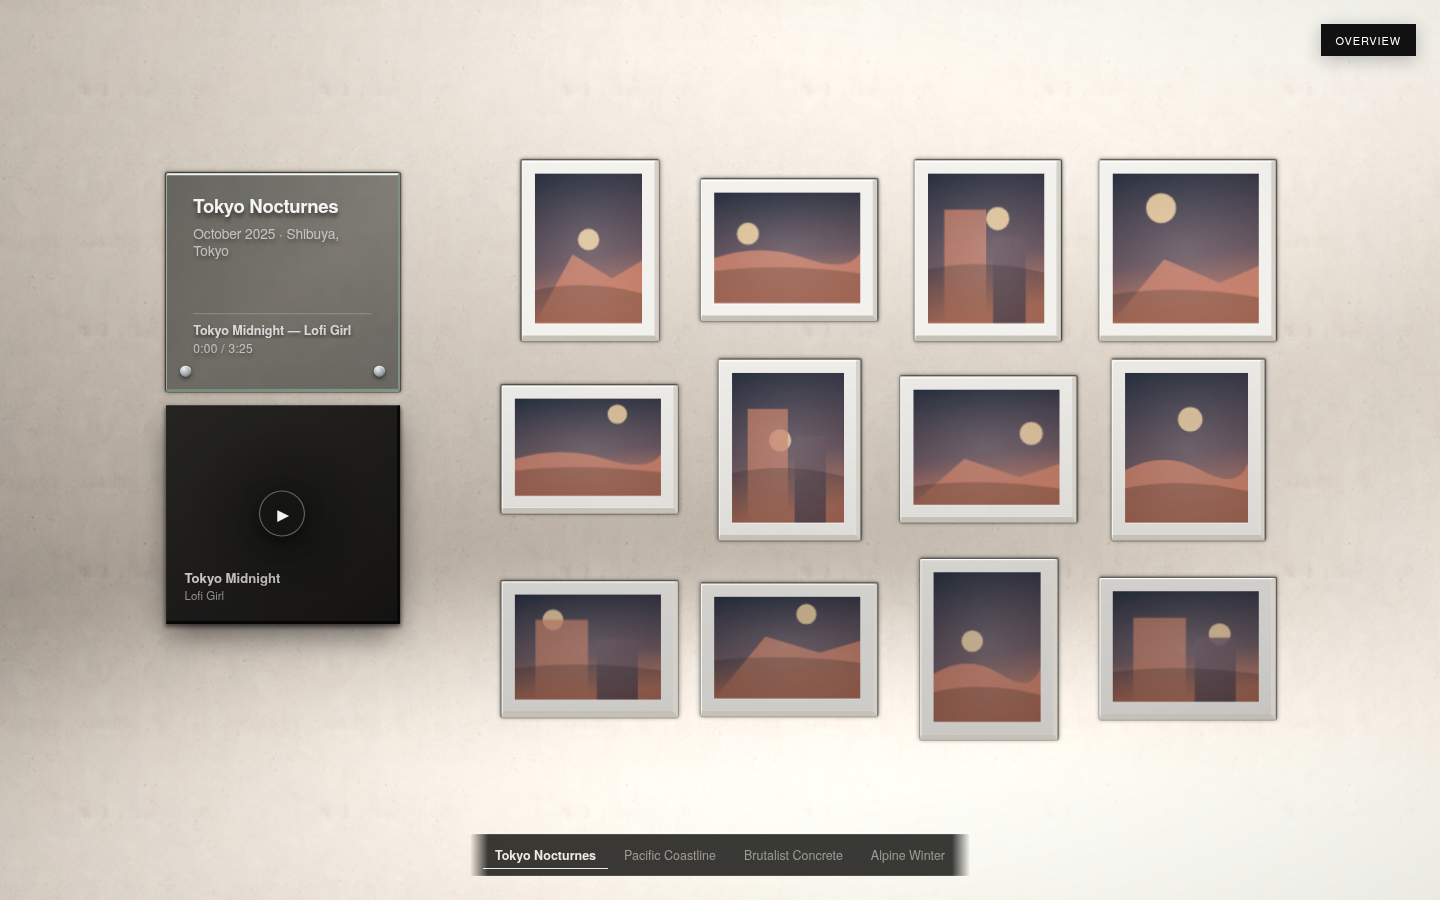
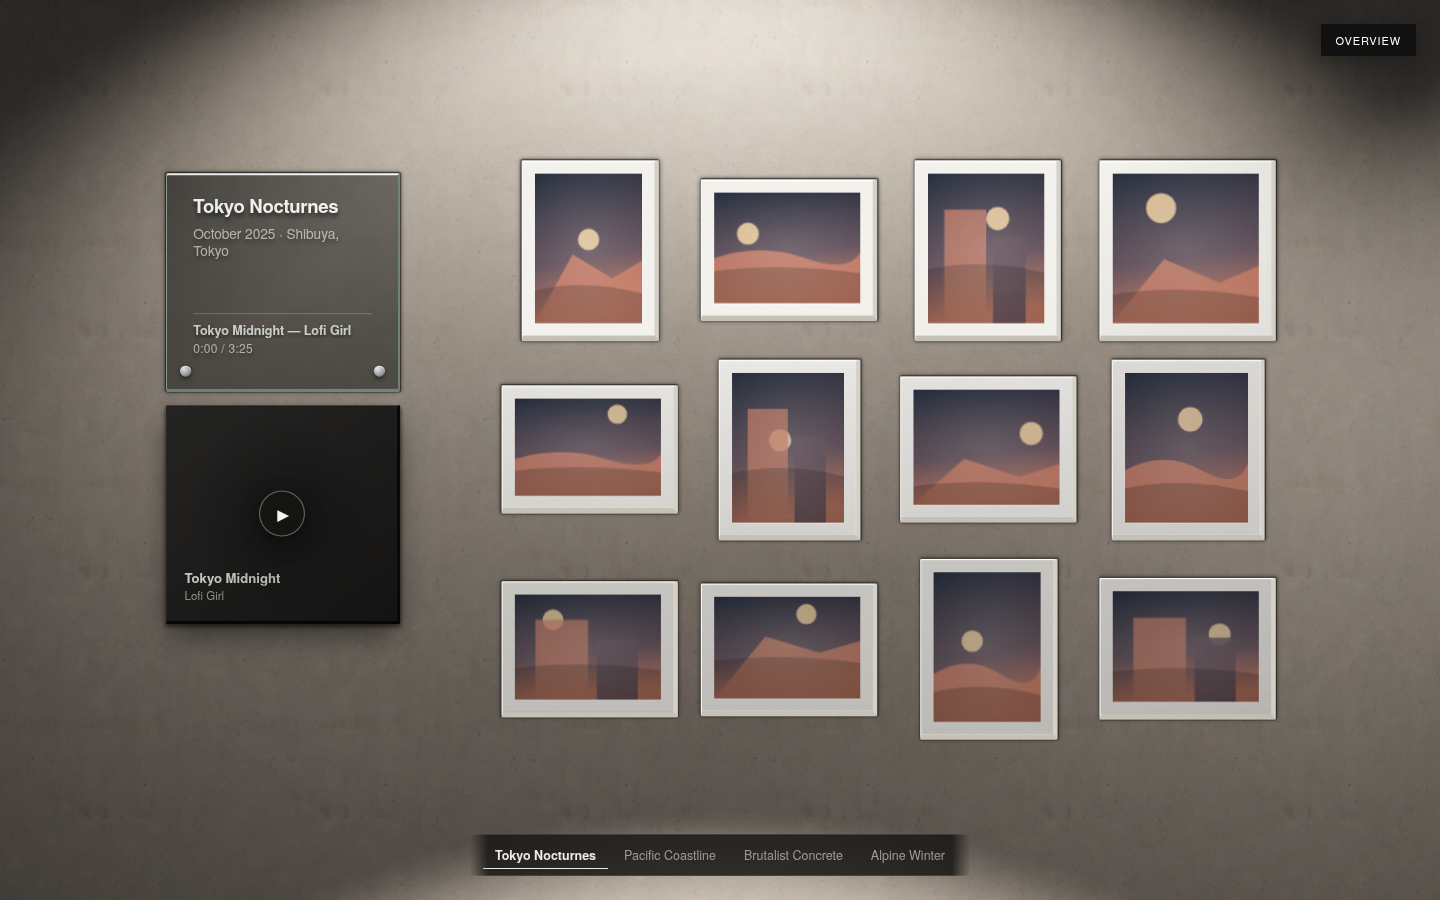
fix(gallery-visual-fidelity): tighten elliptical wash, restore chiaroscuro/concrete separation, and fix mobile tap-to-inspect (PATCH-01)

diff --git a/src/components/wall/GalleryCanvas.tsx b/src/components/wall/GalleryCanvas.tsx
@@ -740,6 +740,7 @@ export default function GalleryCanvas({
                     tier={tier}
                     scale={scale}
                     focusedPhotoId={focusedAlbumId === album.id ? focusedPhotoId : null}
+                    albumFocused={focusedAlbumId === album.id}
                     placardMaterial={placardMaterial}
                     lighting={lightingForAlbum}
                     isDraft={isDraft}
@@ -764,6 +765,7 @@ interface AlbumTierProps {
   tier: ZoomTier;
   scale: number;
   focusedPhotoId: string | null;
+  albumFocused: boolean;
   placardMaterial: PlacardMaterial;
   lighting: IslandLighting | undefined;
   isDraft: boolean;
@@ -779,6 +781,7 @@ function AlbumTier({
   tier,
   scale,
   focusedPhotoId,
+  albumFocused,
   placardMaterial,
   lighting,
   isDraft,
@@ -842,6 +845,7 @@ function AlbumTier({
               tier={tier}
               scale={scale}
               focused={focused}
+              albumFocused={albumFocused}
               lightingVars={lighting?.prints.get(index)}
               onSelectAlbum={onSelectAlbum}
               onSelectPhoto={onSelectPhoto}

diff --git a/src/lib/lighting/__tests__/playgroundLighting.test.ts b/src/lib/lighting/__tests__/playgroundLighting.test.ts
@@ -78,13 +78,13 @@ describe('WALL_SHADER_CFG', () => {
 describe('LIGHT_CFG', () => {
   it('locks the wide single-wash elliptical spotlight constants', () => {
     expect(LIGHT_CFG.fixturePerCols).toBe(99);
-    expect(LIGHT_CFG.hotspotFrac).toBe(0.34);
-    expect(LIGHT_CFG.heightFrac).toBe(1.05);
-    expect(LIGHT_CFG.innerDeg).toBe(26);
-    expect(LIGHT_CFG.outerDeg).toBe(54);
-    expect(LIGHT_CFG.ambientObj).toBeCloseTo(0.56, 10);
+    expect(LIGHT_CFG.hotspotFrac).toBe(0.32);
+    expect(LIGHT_CFG.heightFrac).toBe(0.96);
+    expect(LIGHT_CFG.innerDeg).toBe(18);
+    expect(LIGHT_CFG.outerDeg).toBe(38);
+    expect(LIGHT_CFG.ambientObj).toBeCloseTo(0.5, 10);
     expect(LIGHT_CFG.objDepth).toBe(9);
-    expect(LIGHT_CFG.throwFrac).toBe(1.15);
+    expect(LIGHT_CFG.throwFrac).toBe(0.85);
     expect(LIGHT_CFG.placardDepth).toBe(14);
     expect(LIGHT_CFG.printDepth).toBe(22);
     expect(PLACARD_DEPTH).toBeCloseTo(0.14, 10);

diff --git a/src/components/wall/FramedPrint.tsx b/src/components/wall/FramedPrint.tsx
@@ -25,6 +25,7 @@ export interface FramedPrintProps {
   tier: ZoomTier;
   scale: number;
   focused: boolean;
+  albumFocused?: boolean;
   /** Per-print `--lit*` custom properties from `playgroundLighting`. */
   lightingVars?: Record<string, string>;
   onSelectAlbum: (albumId: string) => void;
@@ -43,6 +44,7 @@ export default function FramedPrint({
   tier,
   scale,
   focused,
+  albumFocused = false,
   lightingVars,
   onSelectAlbum,
   onSelectPhoto,
@@ -61,7 +63,7 @@ export default function FramedPrint({
         onClick={(event) => {
           event.stopPropagation();
           if (wasDragged()) return;
-          if (tier === 'macro' || scale < 0.52) onSelectAlbum(albumId);
+          if (tier === 'macro' || (scale < 0.52 && !albumFocused)) onSelectAlbum(albumId);
           else onSelectPhoto(albumId, photo.id);
         }}
         onPointerMove={(event) => {

diff --git a/src/lib/lighting/playgroundLighting.ts b/src/lib/lighting/playgroundLighting.ts
@@ -41,13 +41,13 @@ export const MAX_SPOTS = 256;
  */
 export const LIGHT_CFG = {
   fixturePerCols: 99,
-  hotspotFrac: 0.34,
-  heightFrac: 1.05,
-  innerDeg: 26,
-  outerDeg: 54,
-  ambientObj: 0.56,
+  hotspotFrac: 0.32,
+  heightFrac: 0.96,
+  innerDeg: 18,
+  outerDeg: 38,
+  ambientObj: 0.5,
   objDepth: 9,
-  throwFrac: 1.15,
+  throwFrac: 0.85,
   placardDepth: 14,
   printDepth: 22,
 } as const;
@@ -251,7 +251,7 @@ export function computePlaygroundLighting(
     const axisLength = Math.hypot(lift, throwDepth);
     const axis: Vec3 = [0, -lift / axisLength, -throwDepth / axisLength];
     const ellipseX = Number(
-      Math.max(1.25, (grid.bounds.width / Math.max(1, spanHeight)) * 1.18).toFixed(3),
+      Math.max(1.2, (grid.bounds.width / Math.max(1, spanHeight)) * 0.88).toFixed(3),
     );
 
     const albumFixtures: PlaygroundFixture[] = [

diff --git a/src/components/wall/PlaygroundPbrWall.tsx b/src/components/wall/PlaygroundPbrWall.tsx
@@ -370,7 +370,7 @@ const PlaygroundPbrWall = forwardRef<PlaygroundPbrWallHandle>(function Playgroun
     set1f('uTileSize', WALL_SHADER_CFG.tileUnits);
     set1f('uNormalStrength', WALL_SHADER_CFG.normalStrength);
     set1f('uAoStrength', WALL_SHADER_CFG.aoStrength);
-    set1f('uSpotIntensity', 1);
+    set1f('uSpotIntensity', 0.78);
     set1f('uAmbientLevel', theme.ambientLevel);
     set3f('uWallTint', theme.tint[0], theme.tint[1], theme.tint[2]);
     set1f('uCosInner', Math.cos((LIGHT_CFG.innerDeg * Math.PI) / 180));

diff --git a/src/lib/lighting/playgroundTheme.ts b/src/lib/lighting/playgroundTheme.ts
@@ -29,8 +29,8 @@ export const PLAYGROUND_THEMES: Record<Mood, PlaygroundTheme> = {
   chiaroscuro: {
     wallBase: '#3d3a35',
     vignette: 'rgba(14, 13, 12, 0.38)',
-    ambientLevel: 0.3,
-    tint: [0.88, 0.85, 0.81],
+    ambientLevel: 0.24,
+    tint: [0.84, 0.81, 0.77],
     wallFg: '#ECEAE4',
     wallMuted: '#9E9C95',
     glassInk: '#F4F6F4',

diff --git a/openspec/changes/gallery-visual-fidelity/verification.md b/openspec/changes/gallery-visual-fidelity/verification.md
@@ -30,7 +30,7 @@
 | **Overview (`concrete`)** | [existing-overview-concrete.png](./assets/existing-overview-concrete.png) | [after-overview-concrete.png](./assets/after-overview-concrete.png) | Even single-wash illumination, zero scalloped hotspots, balanced `2×2` layout. |
 | **Album Focus** | [existing-album-focus.png](./assets/existing-album-focus.png) | [after-album-focus.png](./assets/after-album-focus.png) | Crisp white placard ink over smoky beveled glass, `94px` placard gap, styled soundtrack poster, fine architectural plaster. |
 | **Single-Photo Inspection** | [existing-photo-focus.png](./assets/existing-photo-focus.png) | [after-photo-focus.png](./assets/after-photo-focus.png) | Fine plaster grain (no craters), no placard overlap (`placardRight: 71.7px` vs `focusedLeft: 478.3px`), `dimmedCount: 0` full-fidelity neighbor, 3D right/bottom frame bevels, 2D X+Y opposite glare, dynamic `--tilt-sx`/`--tilt-sy` shadow, bright frosted `rgba(244, 244, 242, 0.92)` focus bar. |
-| **Mobile (`390×844`)** | — | [after-mobile-photo-focus.png](./assets/after-mobile-photo-focus.png) | Clean mobile Album Focus framing (`aspect < 0.9` grid bounds) and `>= 44px` touch targets in `hud.css`. |
+| **Mobile (`390×844`)** | — | [after-mobile-photo-focus.png](./assets/after-mobile-photo-focus.png) | Clean mobile Single-Photo Inspection (`PREV`: `44px`, `NEXT`: `44px`, `RETURN [ESC]`: `50.6px` touch targets in `hud.css`) with light frosted inspection bar. |
 
 ---
 
